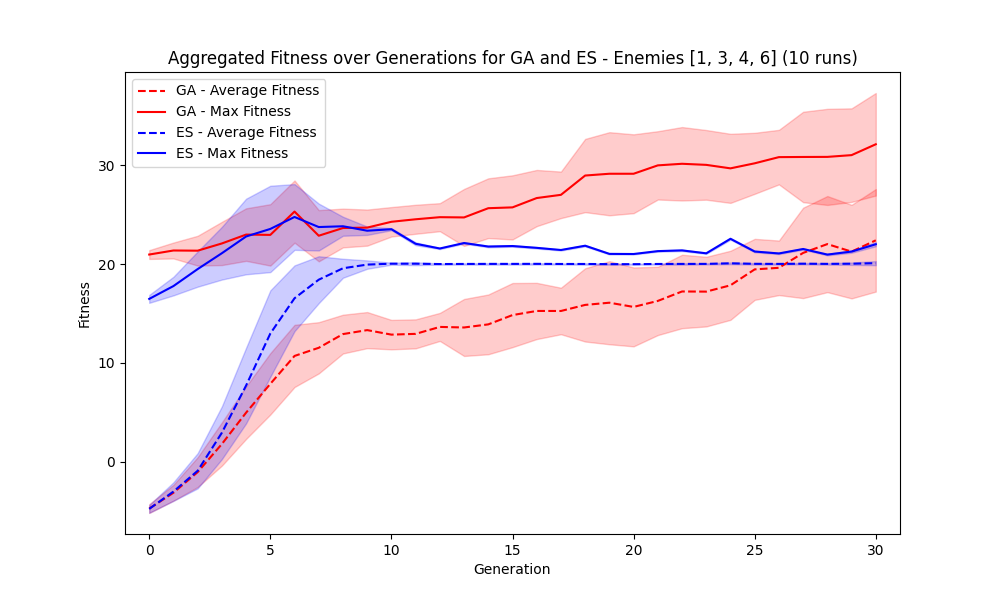
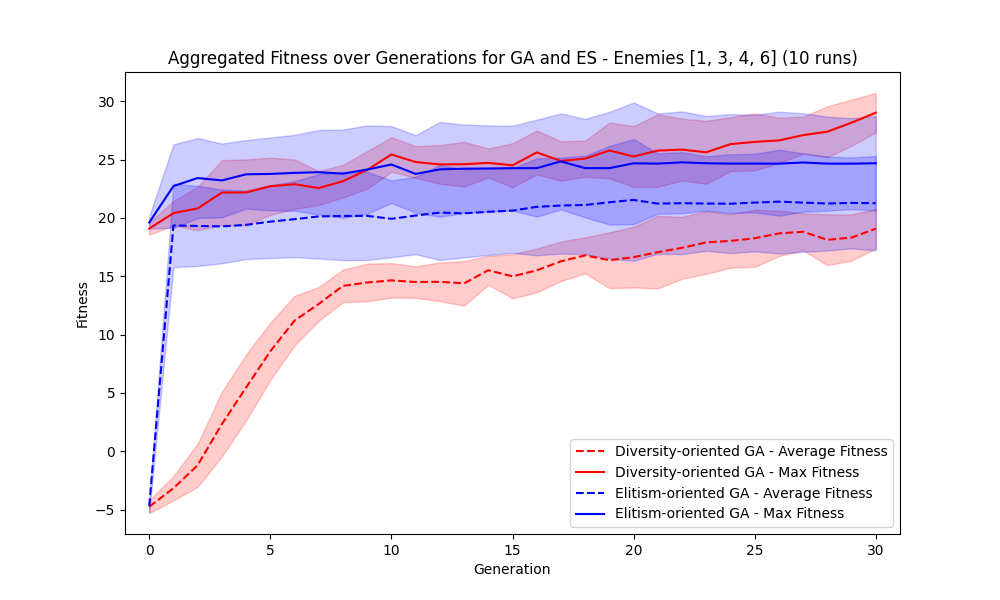
修改为对比两个ga，目前是这样的： ga1（Diversity-oriented GA）： selection：Tournament Selection，tournsize=3；Crossover：Uniform Crossover；Mutation：mutGaussian，变异率mutation_rate + 0.1=0.3；标准差：0.3
ga2（Elitism-oriented GA）：
selection：Roulette Wheel Selection，tournsize=20；Crossover：Single-Point Crossover；Mutation：mutGaussian，变异率mutation_rate - 0.1= 0.1；标准差：0.05；Survivor Selection：Elitism

mutation_rate = 0.2

diff --git a/training_generalist.py b/training_generalist.py
@@ -15,7 +15,7 @@ import datetime
 
 class GeneralistOptimizer:
     def __init__(self, base_experiment_name, enemy_set, n_hidden_neurons=10, n_population=100, n_generations=30,
-                 mutation_rate=0.2, sigma=0.1, mode="GA"):
+                 mutation_rate=0.2, sigma=0.1, mode="GA1"):
 
         enemy_string = '_'.join(map(str, enemy_set))
         parent_directory = f'experiments_train_generalist_{enemy_string}'
@@ -42,12 +42,12 @@ class GeneralistOptimizer:
 
         self.toolbox = base.Toolbox()
 
-        if self.mode == "GA":
-            self.setup_ga()
-        elif self.mode == "ES":
-            self.setup_es()
+        if self.mode == "GA1":
+            self.setup_ga1()  # Setup for diversity-oriented GA
+        elif self.mode == "GA2":
+            self.setup_ga2()  # Setup for elitism-oriented GA
         else:
-            print("Hey! You can only choose GA or ES!")
+            print("Hey! You can only choose GA1, GA2!")
             return
 
     def setup_environment(self):
@@ -67,7 +67,8 @@ class GeneralistOptimizer:
         # Assuming the environment has a consistent sensor configuration
         return (self.env.get_num_sensors() + 1) * self.n_hidden_neurons + (self.n_hidden_neurons + 1) * 5
 
-    def setup_ga(self):
+    def setup_ga1(self):
+        # Diversity-oriented GA configuration
         dom_u = 1
         dom_l = -1
 
@@ -80,15 +81,14 @@ class GeneralistOptimizer:
         self.toolbox.register("population", tools.initRepeat, list, self.toolbox.individual)
 
         self.toolbox.register("evaluate", self.evaluate)
-        # 修改重组策略为 Uniform Crossover
         self.toolbox.register("mate", tools.cxUniform, indpb=0.5)
-        # 修改突变策略为随机重置突变，提升多样性
-        self.toolbox.register("mutate", tools.mutUniformInt, low=dom_l, up=dom_u, indpb=self.mutation_rate)
-        # # 修改选择策略为 Roulette Selection
-        # self.toolbox.register("select", tools.selRoulette)
+        # self.toolbox.register("mate", tools.cxBlend, alpha=0.5)
+        self.toolbox.register("mutate", tools.mutGaussian, mu=0, sigma=0.3, indpb=self.mutation_rate + 0.1)  # Higher mutation rate and larger sigma
         self.toolbox.register("select", tools.selTournament, tournsize=3)
+        # self.toolbox.register("select", tools.selRoulette)
 
-    def setup_es(self):
+    def setup_ga2(self):
+        # Elitism-oriented GA configuration
         dom_u = 1
         dom_l = -1
 
@@ -101,9 +101,12 @@ class GeneralistOptimizer:
         self.toolbox.register("population", tools.initRepeat, list, self.toolbox.individual)
 
         self.toolbox.register("evaluate", self.evaluate)
-        # 使用适应性步长控制的突变函数
-        self.toolbox.register("mutate", self.mutate_es_adaptive)
-        self.toolbox.register("select", tools.selBest)
+        self.toolbox.register("mate", tools.cxOnePoint)  # Single-point crossover
+        self.toolbox.register("mutate", tools.mutGaussian, mu=0, sigma=0.05, indpb=self.mutation_rate - 0.1)  # Lower mutation rate and smaller sigma
+        # self.toolbox.register("select", tools.selTournament, tournsize=20)
+        self.toolbox.register("select", tools.selRoulette)
+        self.toolbox.register("select_survivors", tools.selBest)  # Elitism to retain the best individuals
+
 
     def mutate_es_adaptive(self, individual):
         # 初始化步长
@@ -130,13 +133,10 @@ class GeneralistOptimizer:
         fitness = self.env.play(pcont=np.array(individual))[0]
         return fitness,
 
-    def mutate_es(self, individual):
-        noise = np.random.normal(0, self.sigma, len(individual))
-        individual += noise
-        return individual,
-
     def run(self):
-        if self.mode == "GA":
+        if self.mode == "GA1":
+            return self.run_ga()
+        elif self.mode == "GA2":
             return self.run_ga()
         elif self.mode == "ES":
             return self.run_es()
@@ -166,47 +166,45 @@ class GeneralistOptimizer:
 
         return population, logbook, hof
 
-    def run_es(self):
+    def get_population_GA(self):
+        """
+        记录每一代的 population 并将其保存在字典中，键是代数，值是对应代的 population。
+        返回包含所有 generations 的 population 的字典。
+        """
         population = self.toolbox.population(n=self.n_population)
-
         fitnesses = list(map(self.toolbox.evaluate, population))
         for ind, fit in zip(population, fitnesses):
             ind.fitness.values = fit
+        population_dict = {}  # 用来保存每代的 population
+        for gen in range(self.n_generations):
+            population_dict[gen] = [ind.tolist() for ind in population]  # 将 individuals 存入字典
 
-        logbook = tools.Logbook()
-        logbook.header = ['gen', 'avg', 'max', 'std']
+            offspring = algorithms.varAnd(population, self.toolbox, cxpb=0.5, mutpb=self.mutation_rate)
+            fitnesses = list(map(self.toolbox.evaluate, offspring))
+            for ind, fit in zip(offspring, fitnesses):
+                ind.fitness.values = fit
+            population = self.toolbox.select(offspring, len(population))
+        return population_dict
 
-        hof = tools.HallOfFame(1, similar=np.array_equal)
+    def save_population_GA(self, population_dict):
+        """
+        将每一代的 population 保存到同一个文本文件中。
+        文件中使用代数作为分隔符，区分每一代的 individuals。
+        """
+        file_path = f"{self.experiment_name}/all_generations_population_GA.txt"
 
-        stats = tools.Statistics(lambda ind: ind.fitness.values)
-        stats.register("avg", np.mean)
-        stats.register("std", np.std)
-        stats.register("min", np.min)
-        stats.register("max", np.max)
+        with open(file_path, "w") as f:
 
-        record = stats.compile(population)
-        logbook.record(gen=0, **record)
+            for gen, population in population_dict.items():
 
-        for gen in range(1, self.n_generations + 1):
-            parents = list(map(self.toolbox.clone, population))
-            offspring = parents
-            for mutant in offspring:
-                self.toolbox.mutate(mutant)
-                mutant.fitness.values = self.evaluate(mutant)
+                f.write(f"Generation {gen}:\n")
 
-            offspring = offspring + parents
+                for individual in population:
+                    f.write(f"{individual}\n")  # individual 是 numpy.ndarray
 
-            population[:] = self.toolbox.select(offspring, len(population))
+                f.write("\n")
 
-            hof.update(population)
-            record = stats.compile(population)
-            logbook.record(gen=gen, **record)
-            print(f"Gen {gen}: {record}")
-
-        best = hof[0]
-        np.savetxt(f'{self.experiment_name}/best.txt', best)
-
-        return population, logbook, hof
+        print(f"All populations saved to {file_path}")
 
     def save_results(self):
         file = open(f'{self.experiment_name}/neuroended', 'w')
@@ -216,8 +214,10 @@ class GeneralistOptimizer:
     def execute(self):
         ini = time.time()
 
-        if self.mode == "GA":
-            print('Starting Genetic Algorithm Optimization...')
+        if self.mode == "GA1":
+            print('Starting Diversity-Oriented Genetic Algorithm Optimization...')
+        elif self.mode == "GA2":
+            print('Starting Elitism-Oriented Genetic Algorithm Optimization...')
         elif self.mode == "ES":
             print('Starting Evolution Strategies Optimization...')
         population, logbook, hof = self.run()
@@ -241,6 +241,11 @@ class GeneralistOptimizer:
         self.save_results()
         full_path = os.path.abspath(stats_file_path)
         print(full_path)
+
+        # # if self.mode == "GA":
+        # population_dict = self.get_population_GA()
+        # self.save_population_GA(population_dict)
+
         return full_path
 
 if __name__ == "__main__":
@@ -255,15 +260,12 @@ if __name__ == "__main__":
     mutation_rate = 0.2
     sigma = 0.1
 
-    enemy_sets = [[1, 3, 4, 6], [2, 5, 7, 8]]
-    modes = ["GA", "ES"]
+    # enemy_sets = [[1, 3, 4, 6], [2, 5, 7, 8]]
+    enemy_sets = [[1, 3, 4, 6]]
+    modes = ["GA1", "GA2"]
 
     for enemy_set in enemy_sets:
         for mode in modes:
             generalist_optimizer = GeneralistOptimizer(experiment_name, enemy_set, n_hidden_neurons, n_population, n_generations,
                                                        mutation_rate, sigma, mode=mode)
             generalist_optimizer.execute()
-
-
-
-            

diff --git a/line_plot_10_runs_generalist.py b/line_plot_10_runs_generalist.py
@@ -57,15 +57,15 @@ def plot_aggregated_stats(aggregated_data_1, aggregated_data_2, enemy_set, num_r
     plt.figure(figsize=(10, 6))
 
     # Plot GA
-    plt.plot(generations_1, avg_fitness_1, label='GA - Average Fitness', color='red', linestyle='--')
+    plt.plot(generations_1, avg_fitness_1, label='Diversity-oriented GA - Average Fitness', color='red', linestyle='--')
     plt.fill_between(generations_1, avg_fitness_1 - std_dev_1, avg_fitness_1 + std_dev_1, color='red', alpha=0.2)
-    plt.plot(generations_1, max_fitness_1, label='GA - Max Fitness', color='red')
+    plt.plot(generations_1, max_fitness_1, label='Diversity-oriented GA - Max Fitness', color='red')
     plt.fill_between(generations_1, max_fitness_1 - std_dev_1, max_fitness_1 + std_dev_1, color='red', alpha=0.2)
 
     # Plot ES
-    plt.plot(generations_2, avg_fitness_2, label='ES - Average Fitness', color='blue', linestyle='--')
+    plt.plot(generations_2, avg_fitness_2, label='Elitism-oriented GA - Average Fitness', color='blue', linestyle='--')
     plt.fill_between(generations_2, avg_fitness_2 - std_dev_2, avg_fitness_2 + std_dev_2, color='blue', alpha=0.2)
-    plt.plot(generations_2, max_fitness_2, label='ES - Max Fitness', color='blue')
+    plt.plot(generations_2, max_fitness_2, label='Elitism-oriented GA - Max Fitness', color='blue')
     plt.fill_between(generations_2, max_fitness_2 - std_dev_2, max_fitness_2 + std_dev_2, color='blue', alpha=0.2)
 
     plt.title(f'Aggregated Fitness over Generations for GA and ES - Enemies {enemy_set} ({num_runs} runs)')
@@ -83,8 +83,8 @@ if __name__ == "__main__":
     enemy_sets = [[1, 3, 4, 6], [2, 5, 7, 8]]
 
     for enemy_set in enemy_sets:
-        aggregated_data_1 = aggregate_stats("GA", enemy_set, num_runs)
-        aggregated_data_2 = aggregate_stats("ES", enemy_set, num_runs)
+        aggregated_data_1 = aggregate_stats("GA1", enemy_set, num_runs)
+        aggregated_data_2 = aggregate_stats("GA2", enemy_set, num_runs)
 
         plot_aggregated_stats(aggregated_data_1, aggregated_data_2, enemy_set, num_runs)
 
